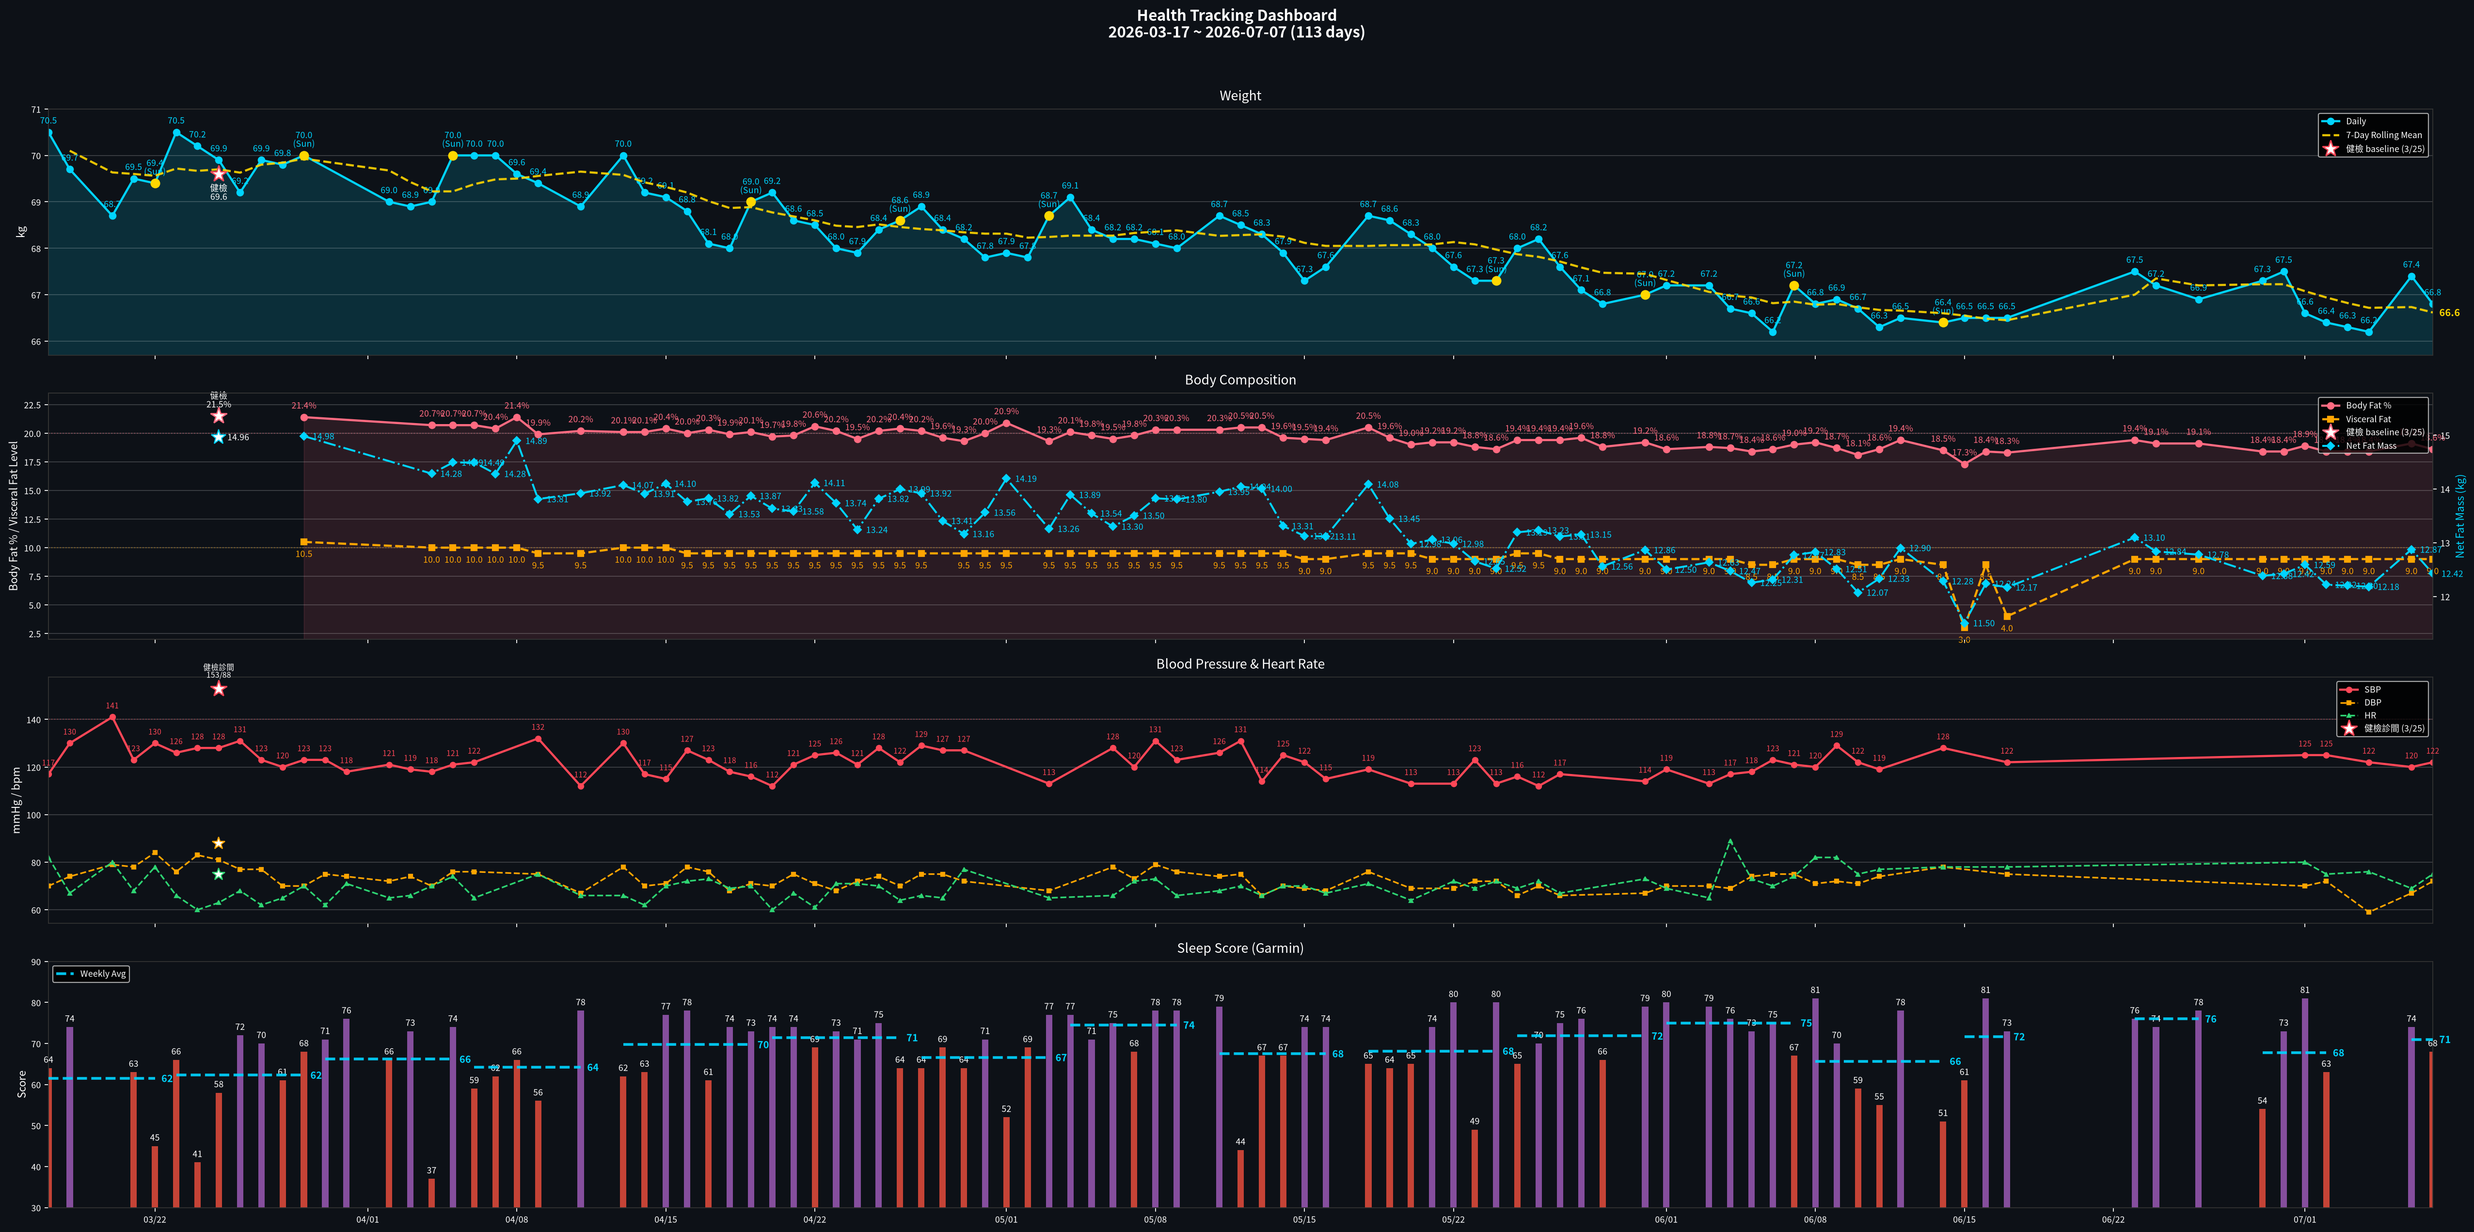
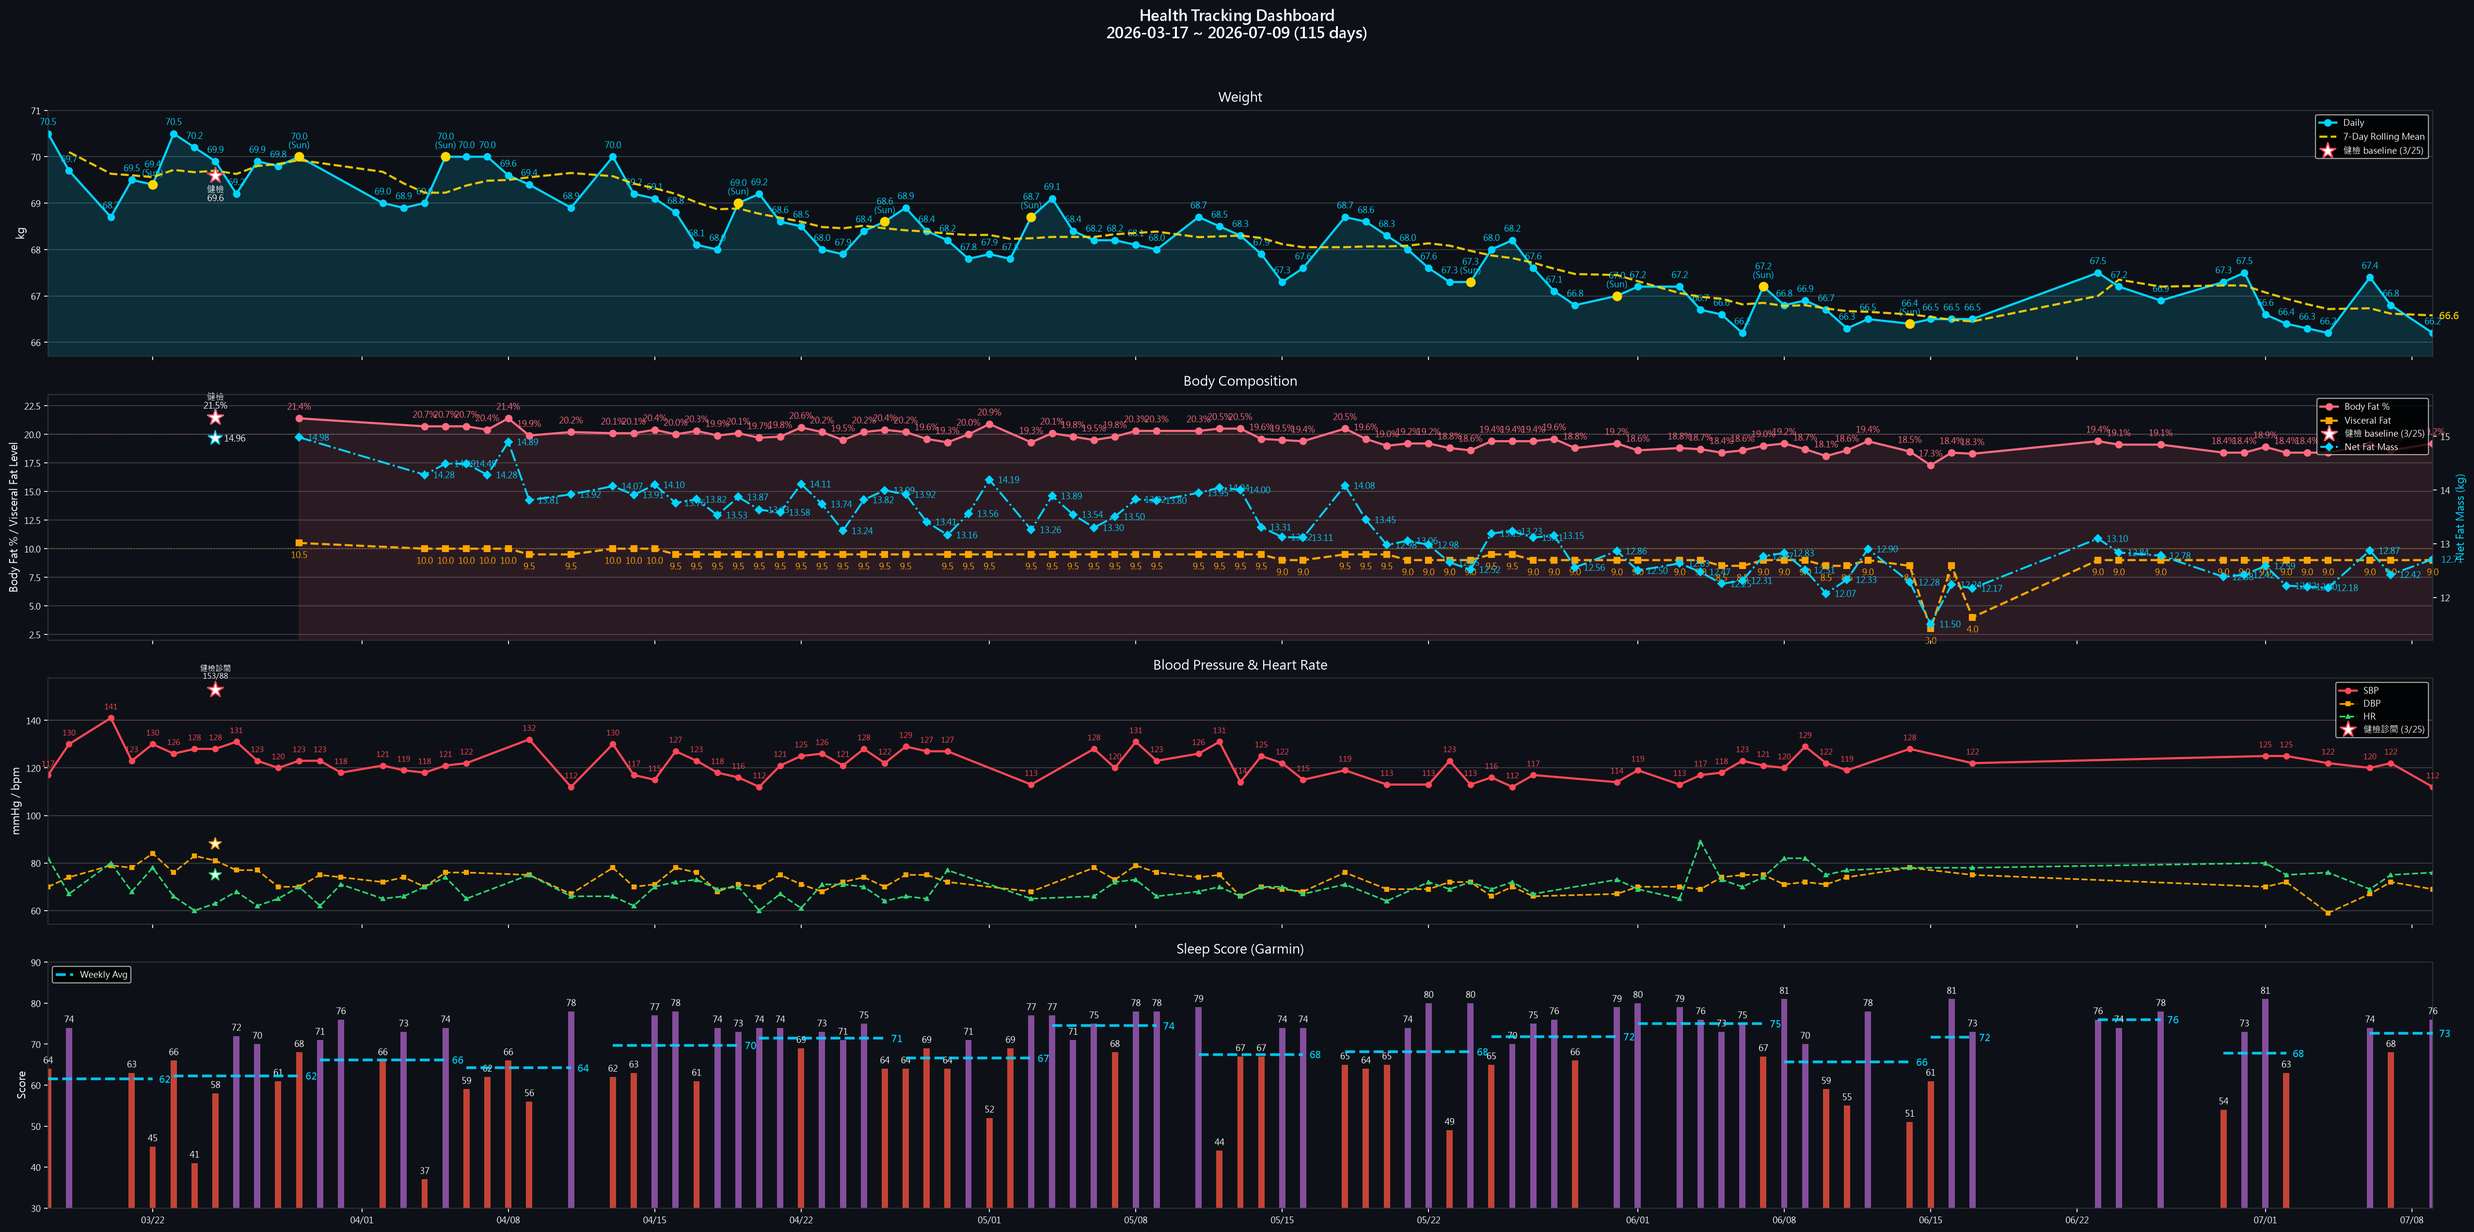
Daily check-in 2026-07-09：體重 66.2 / BP 112-69 / Sleep 76 / BB 80
- 新增 daily 2026-07-09（Glycine 3g 第二晚；RHR 55 月低點連 2 天）
- 新增 food 2026-07-09（抹茶芒果優格低脂牛奶飲）
- 更新 weekly 2026-W28（體組成、BP、睡眠、身體信號、運動）
- 重生成 dashboard（日線 + 週線）、同步 data.js

Claude-Session: https://claude.ai/code/session_012UeAfUpJPPeA97MoHpziRm

diff --git a/data.js b/data.js
@@ -17,17 +17,17 @@ window.HC_DATA = {
     lede:    { en: "Sleep, BP, lipids, uric acid — one shared metabolic root. Lifestyle stacks first; medication only after lifestyle plateaus.",
                zh: "睡眠、血壓、血脂、尿酸——共享同一個代謝根源。生活方式介入優先，等到效果平台期再考慮藥物。" },
     progressLbl: { en: "Weight progress · 70 → 65 kg", zh: "體重進度 · 70 → 65 公斤" },
-    progressMeta: { en: "Day 113 · 66.2 kg · Sat official (7/4)", zh: "第 113 天 · 66.2 公斤 · 週六正式（7/4）" },
-    startDate: { en: "Start date · Mar 17, 2026 · Last sync 7/7", zh: "起始日期 · 2026 年 3 月 17 日 · 最後同步 7/7" },
+    progressMeta: { en: "Day 115 · 66.2 kg · Sat official (7/4)", zh: "第 115 天 · 66.2 公斤 · 週六正式（7/4）" },
+    startDate: { en: "Start date · Mar 17, 2026 · Last sync 7/9", zh: "起始日期 · 2026 年 3 月 17 日 · 最後同步 7/9" },
     startWeight: 70,
     targetWeight: 65,
     currentWeight: 66.2,
     currentWeightDate: "7/4 Sat official",
     // Body comp current actuals — latest daily reading (6/5). Manual for now:
     // sync_data_js.py does NOT yet populate these (only weight/BP/sleep). Update on daily check-in.
-    currentBodyFat: 18.6,
+    currentBodyFat: 19.2,
     currentVisceralFat: 9,
-    currentBodyCompDate: "7/7",
+    currentBodyCompDate: "7/9",
     // Waist = WHO midpoint (健檢-comparable; better VAT proxy than weight). Latest non-empty daily reading.
     currentWaist: 81,
     currentWaistDate: "7/6",
@@ -56,13 +56,13 @@ window.HC_DATA = {
     {
       sys: "heart", name: { en: "Blood Pressure", zh: "血壓" },
       val: "124/67", unit: "mmHg",
-      delta: { en: "W27 weekly avg (3 days) · target met (<130) · last 122/72 (7/7)", zh: "W27 週均（3 天）· 已達標 (<130) · 最新 122/72 (7/7)" },
+      delta: { en: "W27 weekly avg (3 days) · target met (<130) · last 112/69 (7/9)", zh: "W27 週均（3 天）· 已達標 (<130) · 最新 112/69 (7/9)" },
       cadence: { en: "Daily · weekly avg", zh: "每日 · 週均" },
       status: "ok",
     },
     {
       sys: "sleep", name: { en: "Sleep Score", zh: "睡眠分數" },
-      val: "68", unit: "Garmin",
+      val: "76", unit: "Garmin",
       delta: { en: "Sleep = behavioral/autonomic · OSA/hypoxia ruled out 6/29 (fingertip oximetry flat)", zh: "睡眠＝行為/自律神經 · OSA/缺氧已排除 6/29（指尖血氧整夜平穩）" },
       cadence: { en: "Daily · Garmin", zh: "每日 · Garmin" },
       status: "warn",
@@ -946,17 +946,17 @@ window.HC_DATA = {
   tracker: {
     // [SBP, DBP] — gaps filled with prior reading
     bp: [
-      [122,75], [122,75], [122,75], [122,75], [122,75], [122,75], [122,75], [122,75], [125,70], [125,72], [125,72], [122,59], [120,67], [122,72],
+      [122,75], [122,75], [122,75], [122,75], [122,75], [122,75], [122,75], [125,70], [125,72], [125,72], [122,59], [120,67], [122,72], [112,69],
     ],
     // daily weight (kg)
-    weight: [66.5, 66.5, 66.5, 67.5, 67.2, 66.9, 67.3, 67.5, 66.6, 66.4, 66.3, 66.2, 67.4, 66.8],
+    weight: [66.5, 66.5, 67.5, 67.2, 66.9, 67.3, 67.5, 66.6, 66.4, 66.3, 66.2, 67.4, 66.8, 66.2],
     // Garmin Sleep Score
-    sleep:  [61, 81, 73, 76, 74, 78, 54, 73, 81, 63, 63, 63, 74, 68],
+    sleep:  [81, 73, 76, 74, 78, 54, 73, 81, 63, 63, 63, 74, 68, 76],
     // Body Battery waking
-    bb:     [27, 32, 35, 37, 40, 48, 45, 56, 66, 53, 53, 53, 48, 55],
+    bb:     [32, 35, 37, 40, 48, 45, 56, 66, 53, 53, 53, 48, 55, 80],
     // SpO2 nightly nadir % (last 14 days, parallel to bp/weight/sleep/bb).
     // Earlier nights null until sync_data_js.py backfills; banner only uses trailing values.
-    spo2Nadir: [88, 86, 85, 94, 81, 93, 87, null, null, null, null, null, null, null],
+    spo2Nadir: [86, 85, 94, 81, 93, 87, null, null, null, null, null, null, null, null],
   },
 
   // ===== Running — started 2026-04-26 =====

diff --git a/reviews/food/2026-07-09.md b/reviews/food/2026-07-09.md
@@ -1,0 +1,96 @@
+# 飲食紀錄 — 2026-07-09
+
+**每日目標**（減重期 1,800 kcal / 體重 68 kg）：蛋白質 95 g ｜ 脂肪 50–65 g ｜ 碳水 225–250 g ｜ 纖維 ≥25 g ｜ 鈉 <1,500 mg ｜ 水 2.5–3.0 L
+
+---
+
+## 早餐（目標 350–400 kcal / 30–32 g 蛋白質）
+
+| 品項 | 份量 | 熱量 (kcal) | 蛋白質 (g) | 脂肪 (g) | 碳水 (g) | 膳食纖維 (g) | 鈉 (mg) | 鉀 (mg) |
+|------|------|-------------|------------|----------|----------|--------------|---------|---------|
+| 抹茶芒果優格低脂牛奶飲（抹茶 5g + 芒果 120g + 無糖優格 120g + 低脂牛奶 200cc）| 1 杯 | 250 | 13.5 | 7.0 | 36 | 4.0 | 146 | 820 |
+| **小計** | | 250 | 13.5 | 7.0 | 36 | 4.0 | 146 | 820 |
+
+---
+
+## 午餐（目標 450–550 kcal / 30–32 g 蛋白質）
+
+| 品項 | 份量 | 熱量 (kcal) | 蛋白質 (g) | 脂肪 (g) | 碳水 (g) | 膳食纖維 (g) | 鈉 (mg) | 鉀 (mg) |
+|------|------|-------------|------------|----------|----------|--------------|---------|---------|
+| 沙拉（半份，記錄蔬菜種類）| | | | | | | | |
+| | | | | | | | | |
+| **小計** | | | | | | | | |
+
+> 🥗 醬料：橄欖油 + 巴薩米克/紅酒醋（避千島、凱撒）— 醋酸降餐後血糖（⭐⭐⭐ RCT），油醋助脂溶性植化素吸收。詳見 `articles/diet-nutrition/2026-05-26-vinegar-evidence-note.md`
+
+---
+
+## 晚餐（目標 450–550 kcal / 30–32 g 蛋白質）
+
+| 品項 | 份量 | 熱量 (kcal) | 蛋白質 (g) | 脂肪 (g) | 碳水 (g) | 膳食纖維 (g) | 鈉 (mg) | 鉀 (mg) |
+|------|------|-------------|------------|----------|----------|--------------|---------|---------|
+| | | | | | | | | |
+| **小計** | | | | | | | | |
+
+---
+
+## 點心 / 其他
+
+| 品項 | 份量 | 熱量 (kcal) | 蛋白質 (g) | 脂肪 (g) | 碳水 (g) | 膳食纖維 (g) | 鈉 (mg) | 鉀 (mg) |
+|------|------|-------------|------------|----------|----------|--------------|---------|---------|
+| Psyllium husk（每日固定，餐前 30 分 + 500 mL 水）| 1 Tbsp | 20 | 0.5 | 0.1 | 5.0 | 5.0 | 0 | 0 |
+| | | | | | | | | |
+| **小計** | | 20 | 0.5 | 0.1 | 5.0 | 5.0 | 0 | 0 |
+
+---
+
+## 每日總計 vs 目標
+
+| | 熱量 (kcal) | 蛋白質 (g) | 脂肪 (g) | 碳水 (g) | 膳食纖維 (g) | 鈉 (mg) | 鉀 (mg) | Na/K |
+|--|-------------|------------|----------|----------|--------------|---------|---------|------|
+| **合計** | | | | | | | | |
+| **目標** | 1,800 | 95 | 50–65 | 225–250 | ≥25 | <1,500 | ≥3,500 | <0.6 |
+| **差距** | | | | | | | | |
+| **佔比** | 100% | % | % | % | — | — | — | — |
+
+**Na/K 比值判讀（你高 BP + OSA 體質）**：
+- < 0.5 ✅ 理想（INTERSALT 1988 與最低 BP 相關）
+- 0.5-0.6 🟢 良好
+- 0.6-0.8 🟡 邊緣
+- > 0.8 🟠 警示（鈉相對鉀過高 → BP 上升風險、夜間水腫加劇 OSA）
+
+---
+
+## 補充品（不計熱量）
+
+- [ ] 早：Vitamin D3 3000 IU + K2 MK-7 100 mcg（需 ≥5 g 脂肪同攝）、L-Citrulline 2 g
+- [ ] 午：—
+- [ ] 晚：Omega-3 魚油 rTG ×2（晚餐後、高脂餐吸收最佳；EGCG 膠囊已於 2026-04-21 取消）
+- [ ] 睡前：Chelated Magnesium 400 mg（睡前 1-2 小時）、酸櫻桃 500 mg
+
+## 水分（目標 2.5–3.0 L，17:00 前完成主補水）
+
+- [ ] 晨起 300–400 mL 溫水
+- [ ] 上午拿鐵 1 杯
+- [ ] 午前/午後各 500 mL
+- [ ] 洛神花茶 ×2 杯（~9:30 早餐後 1 杯 + 14:00-14:30 午後 1 杯，各 240 mL；家中 BP < 110/70 時減為 1 杯）
+- [ ] 17:00 後僅補水至口渴解除
+
+---
+
+## 腸道健康（gut–microbiome）
+
+- **今日不同植物種類數**：2 種（抹茶、芒果）
+- **本週累計**：___ / 30 種 🎯（ZOE/American Gut：每週 30 種植物與菌相多樣性相關）
+- **發酵食**：[x] 優格 [ ] 納豆 [ ] 泡菜 [ ] 味噌 [ ] 其他 ___（菌株多樣性，勿只靠優格）
+- 重點：psyllium 補「纖維克數」與降 LDL；植物廣度補「菌相多樣性」— 兩者不可互相取代。
+
+---
+
+## 觀察
+
+- 抹茶芒果優格低脂牛奶飲：好喝，可列入早餐輪替。K 含量佳（~820 mg），有助 Na/K 比。
+
+---
+
+*Filed: reviews/food/2026-07-09.md*

diff --git a/reviews/daily/2026-07-09.md b/reviews/daily/2026-07-09.md
@@ -1,0 +1,96 @@
+# 晨間健康紀錄 — 2026-07-09
+
+*3 分鐘。起床後立即完成。記錄，不分析。*
+
+---
+
+## 體重 / 體組成
+
+**今日：66.2 kg**
+**體脂率：19.2 %**
+**內臟脂肪等級：9.0**
+**腰圍 (WHO midpoint)：[ ] cm**（最下肋骨下緣 + 髂嵴頂端兩點水平中點環繞，通常在肚臍上方 2-5 cm；**與健檢歷史可比**；目標維持 ≤ 83、推進至 < 80 cm）
+**腰圍 (最大腹圍)：[ ] cm**（自然站立、吐氣末、不收腹，軟尺上下移動找最大讀數；通常在肚臍 0 至 -4 cm；**對內臟脂肪變化最敏感**）
+
+**軀幹脂肪（輝葉八電極，主 KPI）：[ ] kg（[ ] %）**（Recomp 期導航指標；目標 6.7→6.0→4.8-5.0kg / ~120-130%。標準 80-160%）
+**除脂體重 LBM（護欄）：[ ] kg**（≥54kg 不可破；跌破=掉肌肉警訊）
+
+*每週六早晨為正式體重紀錄（排尿後、進食前；連 5 個工作日後、週末大餐前的真實低點）。其他日可選填。*
+
+---
+
+## 血壓（晨間）
+
+*起床後 1 小時內，上完廁所、進食前。坐下安靜 5 分鐘，連量兩次取第二次。*
+
+| 次數 | 收縮壓 | 舒張壓 | 心率 |
+|------|--------|--------|------|
+| 第一次 | | | |
+| 第二次 | 112 | 69 | 76 |
+
+---
+
+## 睡眠狀態
+
+**Garmin 偵測入睡：** 21:52
+**實際上床：**
+**實際起床：** 04:45
+**中途醒來：** 次數：2 / 原因：上廁所
+**Garmin Sleep Score：** 76 / 100
+**Garmin Body Battery 起床值：** 80
+**主觀恢復感：** 3 / 5（1=極度疲憊, 5=精力充沛）
+**入睡 latency：**（—）
+
+**備註**：睡前 Glycine 3g（第二次使用；總時長 6h 17m、深眠 84 分、BB 起床 80 為近期高點）。
+
+### SpO2 夜間數值（僅參考 — OSA 篩檢已撤回 2026-06-29）
+
+> ⚠ 指夾式（透射式）連續血氧證實整夜平穩、無掉氧；腕式 SpO2 掉氧為動作 artifact。以下僅留昨夜數值供趨勢參考,**不作 OSA 判讀、不觸發紅旗**。
+
+**今晨最低 SpO2：** 88%（參考）
+**今晨日均 SpO2：** 97%
+
+---
+
+## 昨日回顧
+
+**實際飲水量：** 1.50 L（目標 ≥ 2.5L）⚠ 連續 < 2.0L，UA 排泄效率警示
+**昨日活動消耗：** — kcal（Garmin summary 無活動區塊資料）
+**昨日 Na / K / Na-K ratio：** —（昨日無飲食紀錄）
+**昨日步數：** 2,557 ⚠ 連續 2 天 < 5,000
+
+---
+
+## 身體信號
+
+*任何張力、疼痛、疲勞、異常 — 或「清」。記位置、性質、強度。*
+
+| 部位 | 性質 | 強度 (0-10) |
+|------|------|-------------|
+| 清 | — | — |
+
+---
+
+## 今日計畫速記
+
+- [ ] 飲水目標：2.5 L（錨點 09:30 ≥1.0L / 13:30 ≥2.0L / 17:00 截止 2.5L）
+- [ ] 補充品（核心，2026-05-11 v2）：依預設
+  - 早餐（06:00）：D3 2000 IU + K2 MK-7 180 mcg + L-Citrulline 4 g + 益生菌
+  - 午餐前 30 min：Psyllium 5 g + 350 mL 水
+  - 晚餐前 30 min：Psyllium 5 g + 350 mL 水
+  - 晚餐後：魚油 ×4（拆 18:30 ×2 + 19:30 ×2）
+  - 睡前（21:00）：鎂甘胺酸 400 mg + 酸櫻桃 1000-2000 mg + Glycine 純粉 3 g
+  - 茶飲：洛神花 ×2 杯（早 + 14:00 前）
+  - 食物層：南瓜籽 30 g（15:30）+ 菇蕈 100-130 g/天（午 30-50 + 晚 50-80）
+- [ ] 運動（17:00 固定）：依常規
+- [ ] 活動度/伸展（09:30 + 20:30 兩次錨點）：依常規
+- [ ] Wind-down（20:00 燈光降 + 螢幕濾鏡，液體截止）
+- [ ] 上床 21:30 / 熄燈 22:00（TST 目標 7h+）
+
+---
+
+💡 PT 建議：昨日步數 2,557、已連 2 天 < 5,000，且飲水連續多日 < 2.0L（7/6 1.2L → 7/8 1.5L）— UA 排泄與糖代謝雙重風險，今天優先補回：起床先喝 500 mL，午休加 15 分鐘走路 ×2，避免第 3 天低步數觸發本週紅旗。睡眠 Score 76 + 身體信號清，運動可按計畫執行、不進階。
+
+---
+
+*Filed: reviews/daily/2026-07-09.md*

diff --git a/reviews/weekly/2026-W28.md b/reviews/weekly/2026-W28.md
@@ -30,9 +30,9 @@
 
 |  | 一 | 二 | 三 | 四 | 五 | 六 | 日 |
 |--|----|----|----|----|----|----|-----|
-| 體重 (kg) | 67.4 | 66.8 | | | | | |
-| 體脂率 (%) | 19.1 | 18.6 | | | | | |
-| 內臟脂肪 | 9.0 | 9.0 | | | | | |
+| 體重 (kg) | 67.4 | 66.8 | | 66.2 | | | |
+| 體脂率 (%) | 19.1 | 18.6 | | 19.2 | | | |
+| 內臟脂肪 | 9.0 | 9.0 | | 9.0 | | | |
 | **腰圍 WHO (cm)** | 81 | | | | | | |
 | **腰圍 max (cm)** | | | | | | | |
 
@@ -47,7 +47,7 @@
 | 07-06 (一) | 120 | 67 | 69 |
 | 07-07 (二) | 122 | 72 | 75 |
 | 07-08 (三) | | | |
-| 07-09 (四) | | | |
+| 07-09 (四) | 112 | 69 | 76 |
 | 07-10 (五) | | | |
 | 07-11 (六) | | | |
 | 07-12 (日) | | | |
@@ -63,12 +63,12 @@
 | 07-06 (一) | 22:35 | 04:29 | 無 | 74 | 48 | 4 |
 | 07-07 (二) | 21:37 | 05:34 | 無 | 68 | 55 | 3 |
 | 07-08 (三) | | | | | | |
-| 07-09 (四) | | | | | | |
+| 07-09 (四) | 21:52 | 04:45 | 2次（上廁所） | 76 | 80 | 3 |
 | 07-10 (五) | | | | | | |
 | 07-11 (六) | | | | | | |
 | 07-12 (日) | | | | | | |
 
-**備註**：睡前 Glycine 3g 溶牛奶 → 主觀入睡快、睡飽（週一）。
+**備註**：睡前 Glycine 3g 溶牛奶 → 主觀入睡快、睡飽（週一）。週三晚續用 Glycine 3g → 週四 BB 起床 80（本週高點）、RHR 降至 55（月低點，連 2 天）。
 
 ---
 
@@ -76,7 +76,7 @@
 
 | 信號（部位+性質） | 出現天數 | 平均強度 | 趨勢（↑↓→） | 備註 |
 |-------------------|----------|----------|-------------|------|
-| （清） | — | — | — | 週一、週二清 |
+| （清） | — | — | — | 週一、週二、週四清 |
 
 **反覆出現（≥ 3 天）：** 無
 
@@ -90,6 +90,7 @@
 |------|------------------------|
 | 07-06 (一) | 依常規（17:00） |
 | 07-07 (二) | 依常規（17:00） |
+| 07-09 (四) | 依常規（17:00） |
 
 ---
 

diff --git a/reports/daily-garmin/2026-07-09.md b/reports/daily-garmin/2026-07-09.md
@@ -1,0 +1,27 @@
+# Garmin 每日摘要 — 2026-07-09
+
+## 睡眠
+- 就寢：21:52｜起床：04:45
+- 總時長：6h 17m
+- 深眠：84 分｜REM：54 分
+- Sleep Score：76
+- Body Battery 起床值：80
+
+## 靜息心率
+- RHR：55.0 bpm
+
+## 壓力
+- 日均：22
+
+## 步數
+- 總計：3,154
+
+## SpO2
+- 日均：97.0%
+- 最低：88%
+
+## 飲水
+- 實際：— （Garmin Connect 未紀錄，請於 check-in 手動輸入）
+- 目標：2.00 L
+
+_Source: data/garmin/2026-07-09.json (gitignored)_

diff --git a/reports/daily-garmin/2026-07-08.md b/reports/daily-garmin/2026-07-08.md
@@ -1,0 +1,27 @@
+# Garmin 每日摘要 — 2026-07-08
+
+## 睡眠
+- 就寢：21:29｜起床：03:42
+- 總時長：6h 11m
+- 深眠：110 分｜REM：98 分
+- Sleep Score：80
+- Body Battery 起床值：65
+
+## 靜息心率
+- RHR：55.0 bpm
+
+## 壓力
+- 日均：32
+
+## 步數
+- 總計：2,557
+
+## SpO2
+- 日均：95.0%
+- 最低：88%
+
+## 飲水
+- 實際：1.50 L
+- 目標：2.00 L
+
+_Source: data/garmin/2026-07-08.json (gitignored)_
